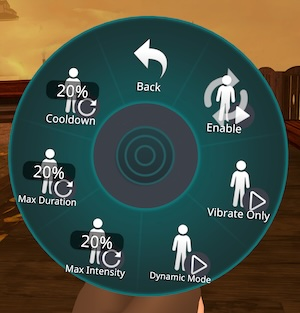
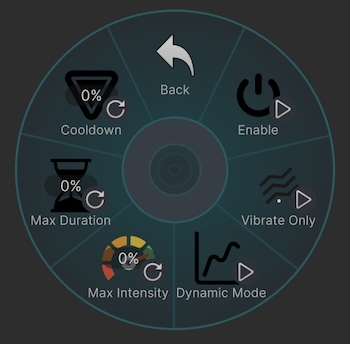
More docs

diff --git a/README.md b/README.md
@@ -31,6 +31,10 @@ You can find the latest pre-built versions of this program and a Unity prefab fo
 *   OSC enabled in the VRChat radial menu (Options -> OSC -> Enabled).
 *   An avatar configured with a PhysBone on the tail, set up with `_IsGrabbed` and `_Stretch` parameters and the ability to be grabbed and stretched.
 
+### Physbone Parameter Setup
+
+![Physbone Setup](/resources/physbone_setup.jpg)
+
 ## Desktop App
 
 ### How to Run 
@@ -66,7 +70,7 @@ To compile a standalone executable from source:
 3. Import the Mayu Tail Shocker Unity package into your project.
 4. Drag the prefab directly onto your avatar's root in the project hierarchy.
 
-## How to Use
+### How to Use
 
 ![A screenshot of the in game control](/resources/menu.jpg)
 
@@ -83,14 +87,19 @@ Options:
 
 ## Third Party Resources
 
-Program icon: https://www.flaticon.com/free-icon/flash_657908
-Enable icon: https://www.flaticon.com/free-icon/power-switch_4139573
-Vibrate icon: https://www.flaticon.com/free-icon/ring_14533511
-Dynamic icon: https://www.flaticon.com/free-icon/line-graph_920199
-Intensity icon: https://www.flaticon.com/free-icon/thermostat_4117629
-Duration icon: https://www.flaticon.com/free-icon/hourglass_786017
-Cooldown icon: https://www.flaticon.com/free-icon/yield_678594
+- Program icon: https://www.flaticon.com/free-icon/flash_657908
+- Enable icon: https://www.flaticon.com/free-icon/power-switch_4139573
+- Vibrate icon: https://www.flaticon.com/free-icon/ring_14533511
+- Dynamic icon: https://www.flaticon.com/free-icon/line-graph_920199
+- Intensity icon: https://www.flaticon.com/free-icon/thermostat_4117629
+- Duration icon: https://www.flaticon.com/free-icon/hourglass_786017
+- Cooldown icon: https://www.flaticon.com/free-icon/yield_678594
 
+## AI Disclaimer
+
+AI was used to create some parts of this project however I have personally tested everything and addressed edge cases where required.
+
+If you have an issue with this please do no not contact me.
 
 ## Contact Me
 